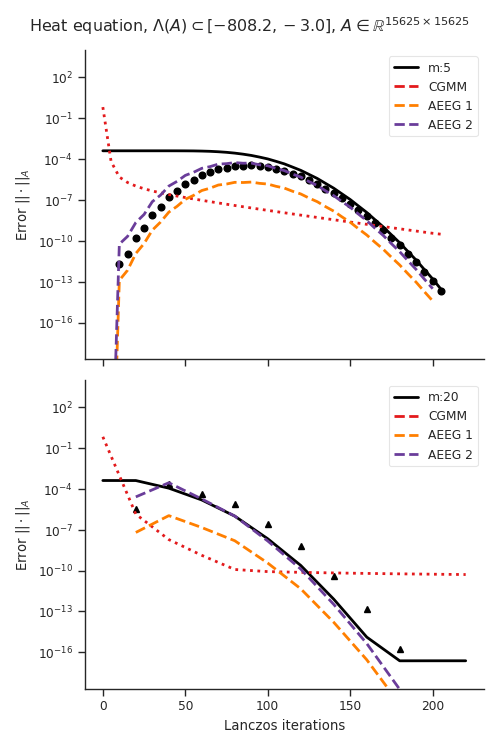
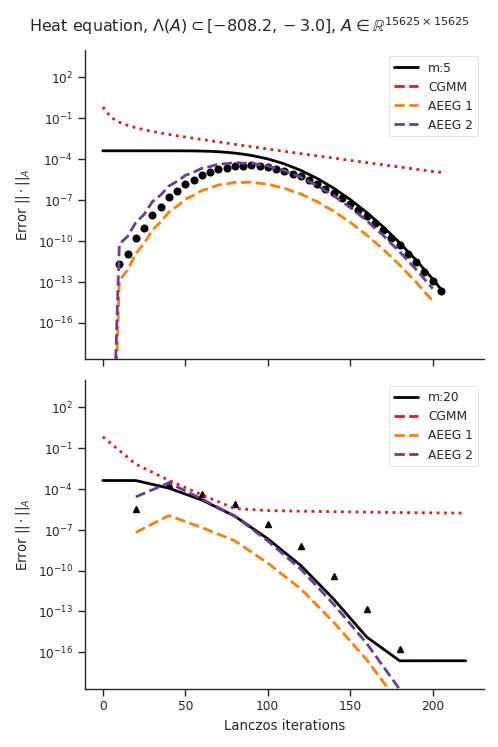
input to Lanczos method needs to be normed in 2-norm not energy

Changed region(s): [[0.2108, 0.1539, 0.241, 0.2155], [0.241, 0.6466, 0.2711, 0.6774], [0.2108, 0.585, 0.241, 0.6158]]

diff --git a/experiments/bounds_exp_heat_restarts.py b/experiments/bounds_exp_heat_restarts.py
@@ -133,7 +133,7 @@ if __name__ == "__main__":
         line, = axs[j].plot(idx[1:], npupdate_norms, linestyle="none", c="black", marker=markers[j])
 
         i = 0
-        beta = norm(u0.flatten())
+        beta = np.linalg.norm(u0.flatten())
         (v, V, H, m) = arnoldi(t * A, u0.flatten() / beta, krylov_size + 50, trunc=1)
 
         i += 2
